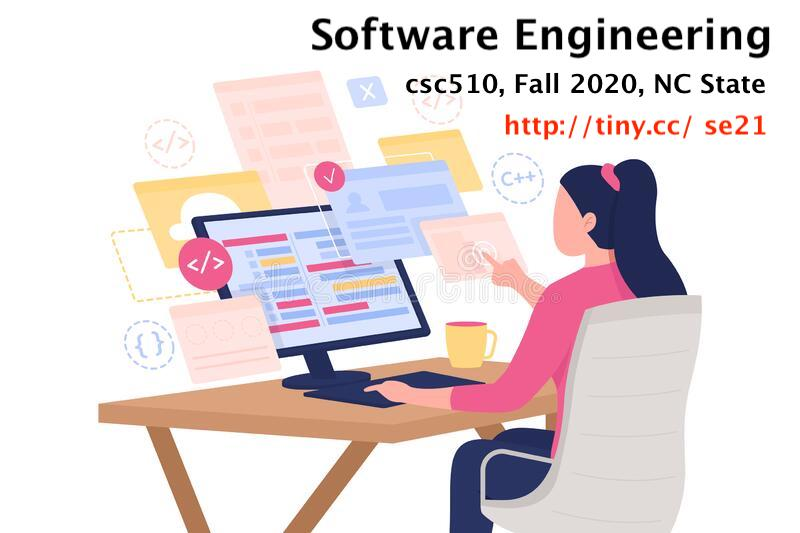
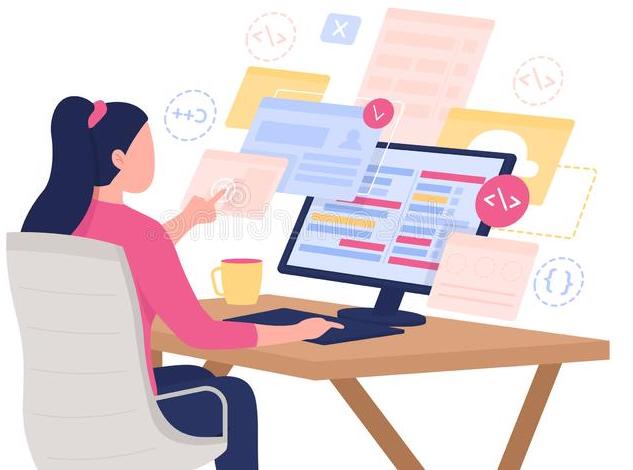
save

diff --git a/README.md b/README.md
@@ -1,7 +1,7 @@
 
 <a name=top>
 <a href="http://tiny.cc/se21"><img  width=700
-  src="https://raw.githubusercontent.com/txt/se21/master/docs/img/femse.jpg"></a>
+  src="https://raw.githubusercontent.com/txt/se21/master/docs/img/femse.png"></a>
 <hr>
 <p>
 &nbsp;<a href="https://tiny.cc/se21">home</a> ::
